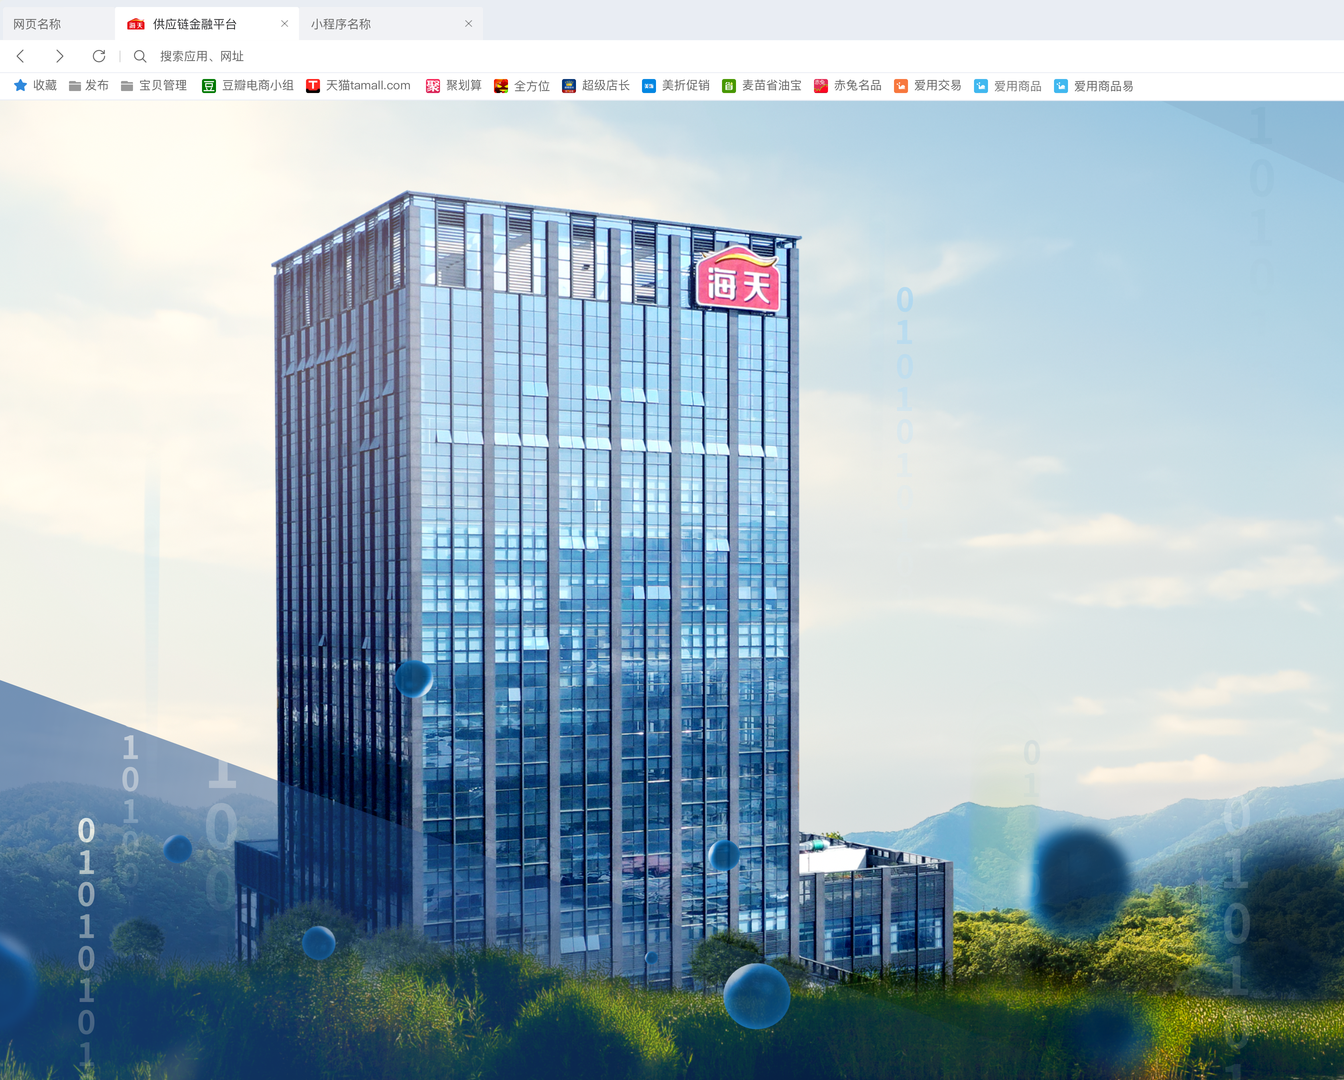
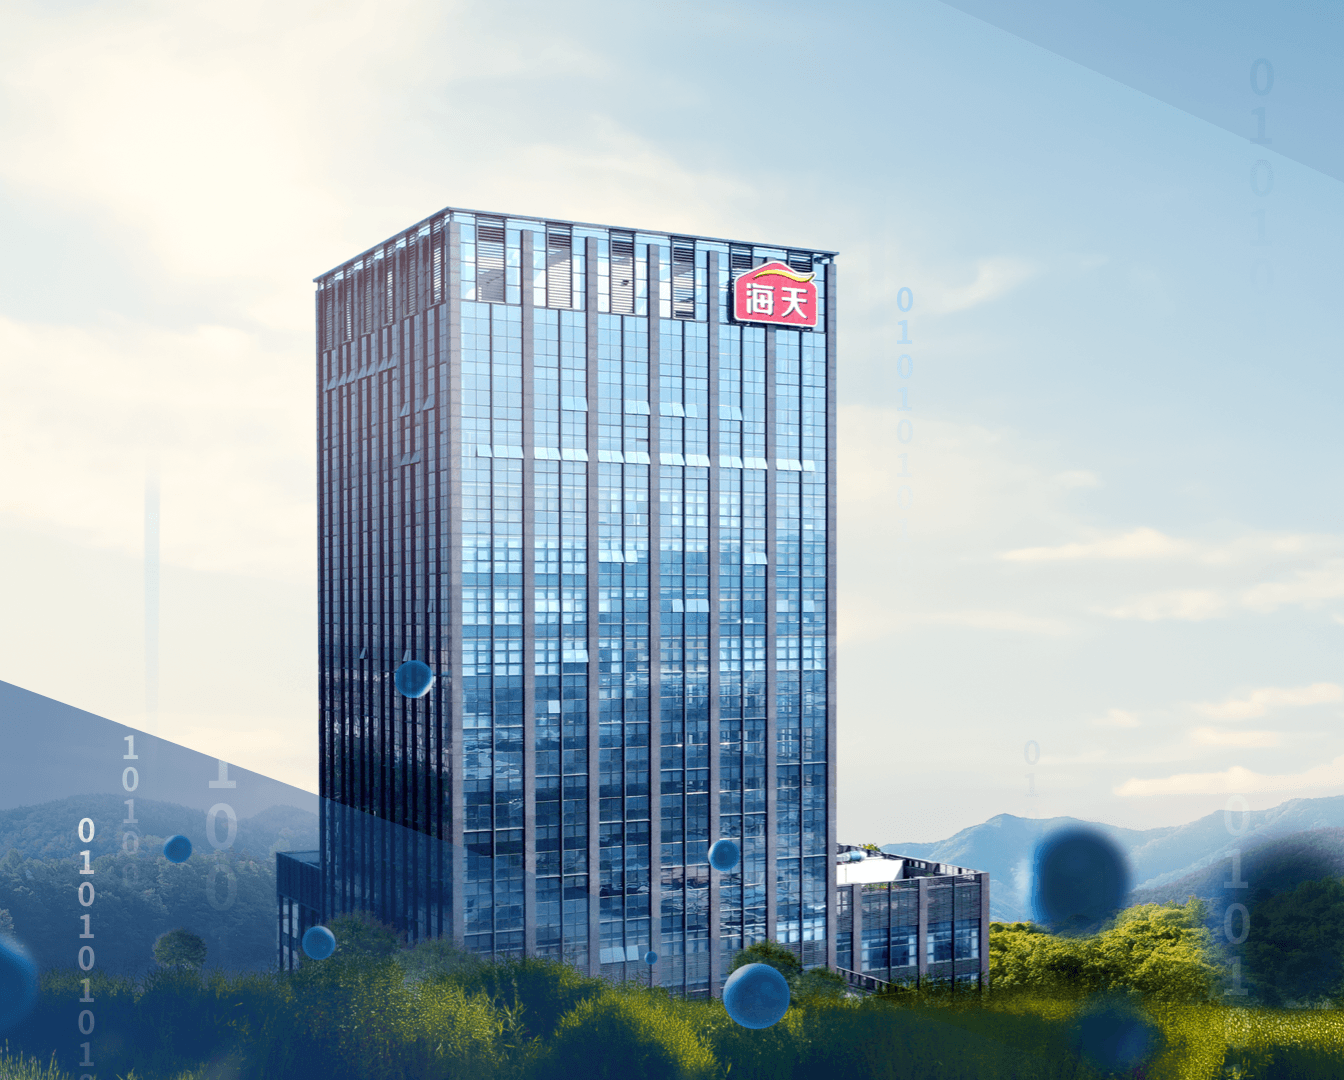
登录页修改

diff --git a/src/modules/ebill/views/tradeBackground/tradeRelations/myTradeRelations/index.vue b/src/modules/ebill/views/tradeBackground/tradeRelations/myTradeRelations/index.vue
@@ -194,6 +194,7 @@ export default {
       zjControl: {
         relationLsit: this.$api.tradeRelations.relationLsit,//查询列表
         relationAdd: this.$api.tradeRelations.relationAdd,//新增贸易关系
+        relationEnt: this.$api.tradeRelations.relationEnt,//修改贸易关系
       },
       searchForm: {},
       tableData: [{ id: 1 }],
@@ -218,7 +219,6 @@ export default {
       if(res.code===200){
         this.relList = res.data.rows[0]
       }
-      console.log(this.relList,"1111111")
     })
     },
     //清空
@@ -238,28 +238,6 @@ export default {
     cancel(){
       this.dataNull()
     },
-    //保存
-    save(row){
-      if(this.type == "add"){
-        let params = {
-          // entName:this.formModel.entName,//买方企业名称
-          invoiceTaxpayerId:this.formModel.invoiceTaxpayerId,//卖方企业名称
-          invoiceAddress:this.formModel.invoiceAddress,//卖方银行账号
-          invoicePhone:this.formModel.invoicePhone,//卖方银行账号户名
-          invoiceBankInfo:this.formModel.invoiceBankInfo,//卖方企业开户行
-          invoiceBankAccno:this.formModel.invoiceBankAccno,//银行联号
-          invoiceEmail:this.formModel.invoiceEmail,//银行类型
-        }
-          this.zjControl.relationAdd(params).then(() => {
-          this.$Message.success('新增成功！')
-          this.dialogVisible = false;
-          this.dataNull()
-        })
-      }else{
-        alert("修改")
-        console.log(row,"1111111")
-      }
-    },
     //修改
     edit(row) {
       this.type = "edit";
@@ -278,6 +256,44 @@ export default {
     dialogVisibleTo(){
       this.dialogVisible = false;
       this.dataNull()
+    },
+    //保存
+    save(row){
+      console.log(row,'============')
+      if(this.type == "add"){
+        alert("保存")
+        let params = {
+          entName:this.relList.bankAccname,//买方企业名称
+          invoiceTaxpayerId:this.formModel.buyerEntName,//卖方企业名称
+          invoiceAddress:this.formModel.bankAccount,//卖方银行账号
+          invoicePhone:this.formModel.invoicePhone,//卖方银行账号户名
+          invoiceBankInfo:this.formModel.invoiceBankInfo,//卖方企业开户行
+          invoiceBankAccno:this.formModel.invoiceBankAccno,//银行联号
+          invoiceEmail:this.formModel.invoiceEmail,//银行类型
+        }
+          this.zjControl.relationAdd(params).then(() => {
+          this.$Message.success('新增成功！')
+          this.dialogVisible = false;
+          this.dataNull()
+        })
+      }
+      if(this.type == "edit"){
+        alert("修改")
+        let params = {
+          entName:this.relList.bankAccname,//买方企业名称
+          invoiceTaxpayerId:this.formModel.buyerEntName,//卖方企业名称
+          invoiceAddress:this.formModel.bankAccount,//卖方银行账号
+          invoicePhone:this.formModel.invoicePhone,//卖方银行账号户名
+          invoiceBankInfo:this.formModel.invoiceBankInfo,//卖方企业开户行
+          invoiceBankAccno:this.formModel.invoiceBankAccno,//银行联号
+          invoiceEmail:this.formModel.invoiceEmail,//银行类型
+        }
+          this.zjControl.relationEnt(params).then(() => {
+          this.$Message.success('修改成功！')
+          this.dialogVisible = false;
+          this.dataNull()
+        })
+      }
     },
     //上传证明材料
     upCredential(row) {

diff --git a/src/modules/base/views/sysModules/login/index/Login.vue b/src/modules/base/views/sysModules/login/index/Login.vue
@@ -14,7 +14,8 @@
               <login-type v-model="userData.pwdVerifyMode" @change="handleChangeLoginType"></login-type>
                 <!--     登录表单       -->
                 <el-form status-icon ref="userForm" class="demo-ruleForm" :statusIcon="false" :model="userData" :rules="userRules" >
-                  <div style="font-size:16px;">手机号</div>
+                  <div style="font-size:16px;" v-if="userData.pwdVerifyMode==='1'">账户</div>
+                  <div style="font-size:16px;" v-else>手机号</div>
                     <el-form-item prop="loginName">
                         <el-input type="text" v-model="userData.loginName" name="loginName"
                                   :placeholder="userData.pwdVerifyMode==='1'?'请输入账户名':'请输入手机号'"
@@ -88,7 +89,20 @@
                   <a @click="$router.push('/forgotPassword')"  class="zj-f-r right-text pointer">忘记密码</a>
                 </el-row>
             </el-card>
+            <div class="fooTer">
+                <div class="logTop">
+                  <span>关于</span>
+                  <div>|</div>
+                  <span>帮助中心</span>
+                  <div>|</div>
+                  <span>公司主页</span>
+                  <div>|</div>
+                  <span>联系我们</span>
+                </div>
+                <div class="logBottom">@2021 海天</div>
+            </div>
         </div>
+        
         <!--    底部组件    -->
         <!-- <LoginFooter></LoginFooter> -->
         <!--    强制修改密码    -->
@@ -108,6 +122,38 @@
     padding: 0!important;
     border-bottom: 3px solid #165DFF;
     color: #165DFF; }
+.fooTer{
+  position: absolute;
+  bottom: 0px;
+  right: 0;
+  width: 35%;
+  height: 15%;
+  background: #EDF4FB;
+  min-width: 370px;
+  .logTop{
+    width: 100%;
+    height: 80%;
+    padding: 20px 60px;
+    box-sizing: border-box;
+    display: flex;
+    justify-content: space-between;
+    span{
+      font-size: 16px;
+      color:#303133;
+    }
+    div{
+      color: #DCDFE6;
+    }
+  }
+  .logBottom{
+    width: 100%;
+    font-size: 14px;
+    color: #909399;
+    text-align: center;
+    position: absolute;
+    bottom: 10px;
+  }
+}
 </style>
 <style lang="less" src="./css/login.less"></style>
 <style lang="less" scoped src="./css/login_scoped.less"></style>

diff --git a/src/modules/base/views/sysModules/login/index/css/login_scoped.less b/src/modules/base/views/sysModules/login/index/css/login_scoped.less
@@ -13,10 +13,11 @@
 }
 .loginBody{
   height: 100%;
+  position: relative;
   box-sizing: content-box;
   min-height: 500px;
   background: url("~@assets/img/login/bg1.png") no-repeat;
-  background-size: 100% 100%;
+  background-size: 65% 100%;
   .content{
     width: 320px;
     display: inline-block;
@@ -52,9 +53,11 @@
     }
   }
   .el-card{
+    background: url("~@assets/img/login/bg2.png") no-repeat;
+    background-size: 100% 100%;
     border-radius:0!important;
-    width: 28%;
-    height: 100%;
+    width: 35%;
+    height: 85%;
     float: right;
     margin: 0;
     border: 1px solid #e8eaec;

diff --git a/src/modules/base/views/sysModules/login/index/loginType.vue b/src/modules/base/views/sysModules/login/index/loginType.vue
@@ -36,7 +36,7 @@ export default {
 <style lang="less">
 .logImg{
     width: 100%;
-    height: 100px;
+    height: 80px;
     text-align: center;
     .loginBody{
       display: inline-block;
